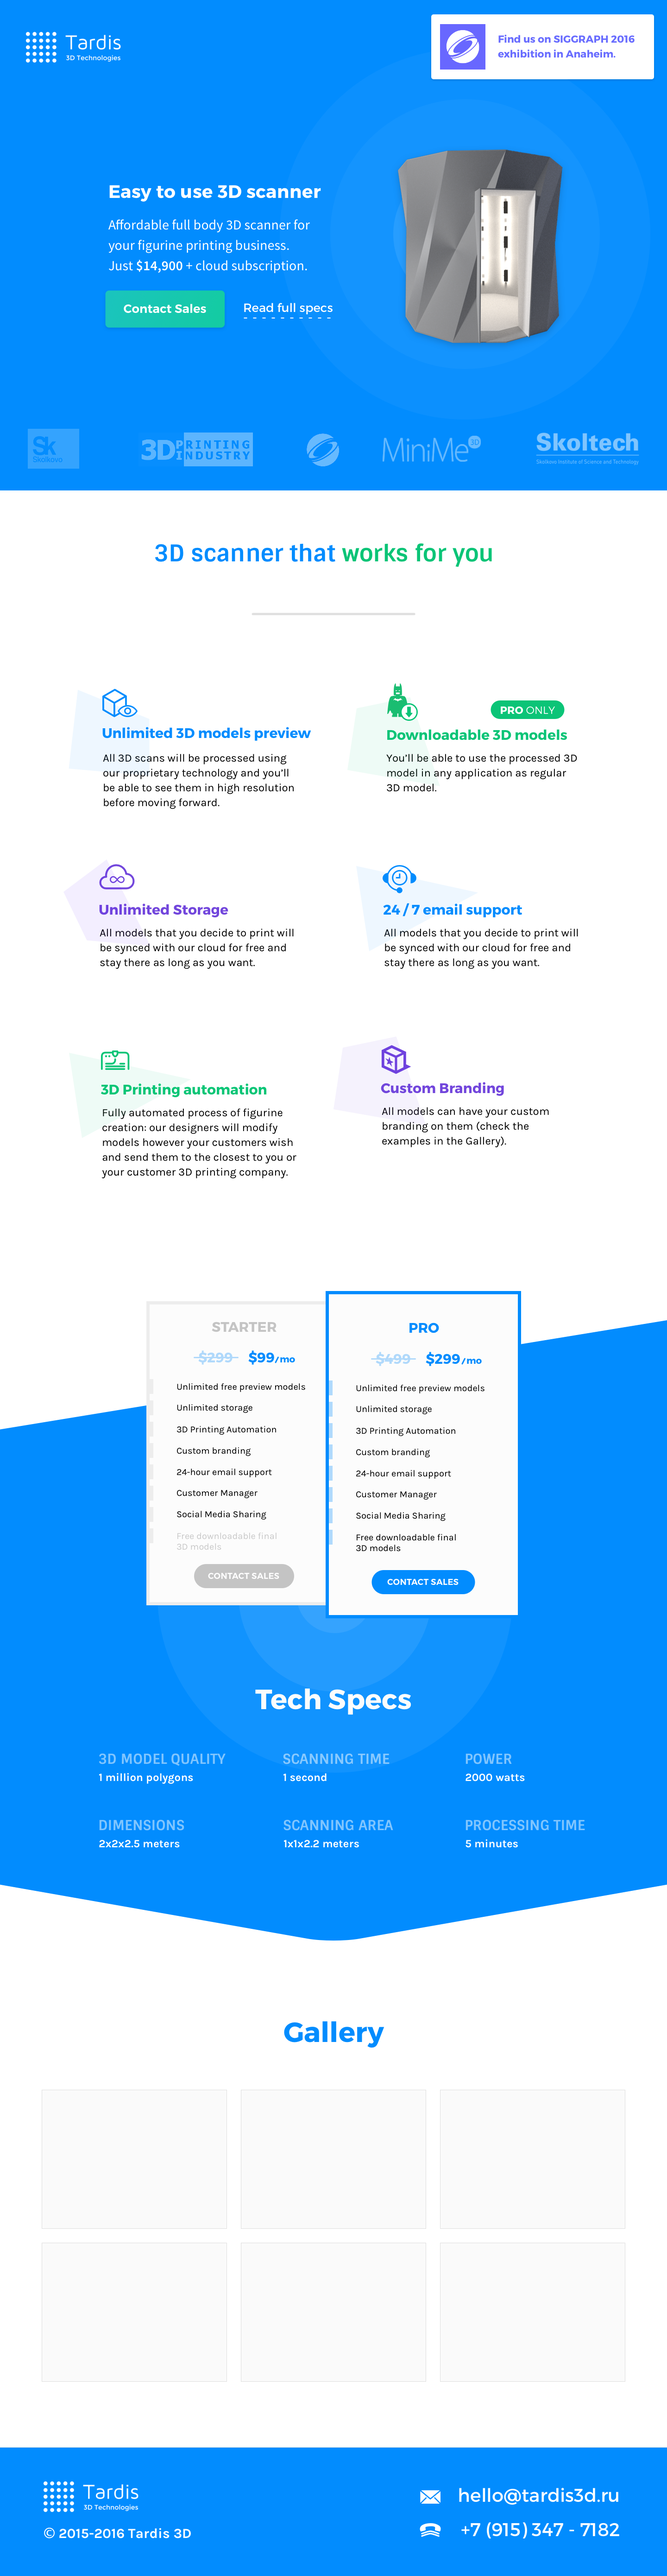
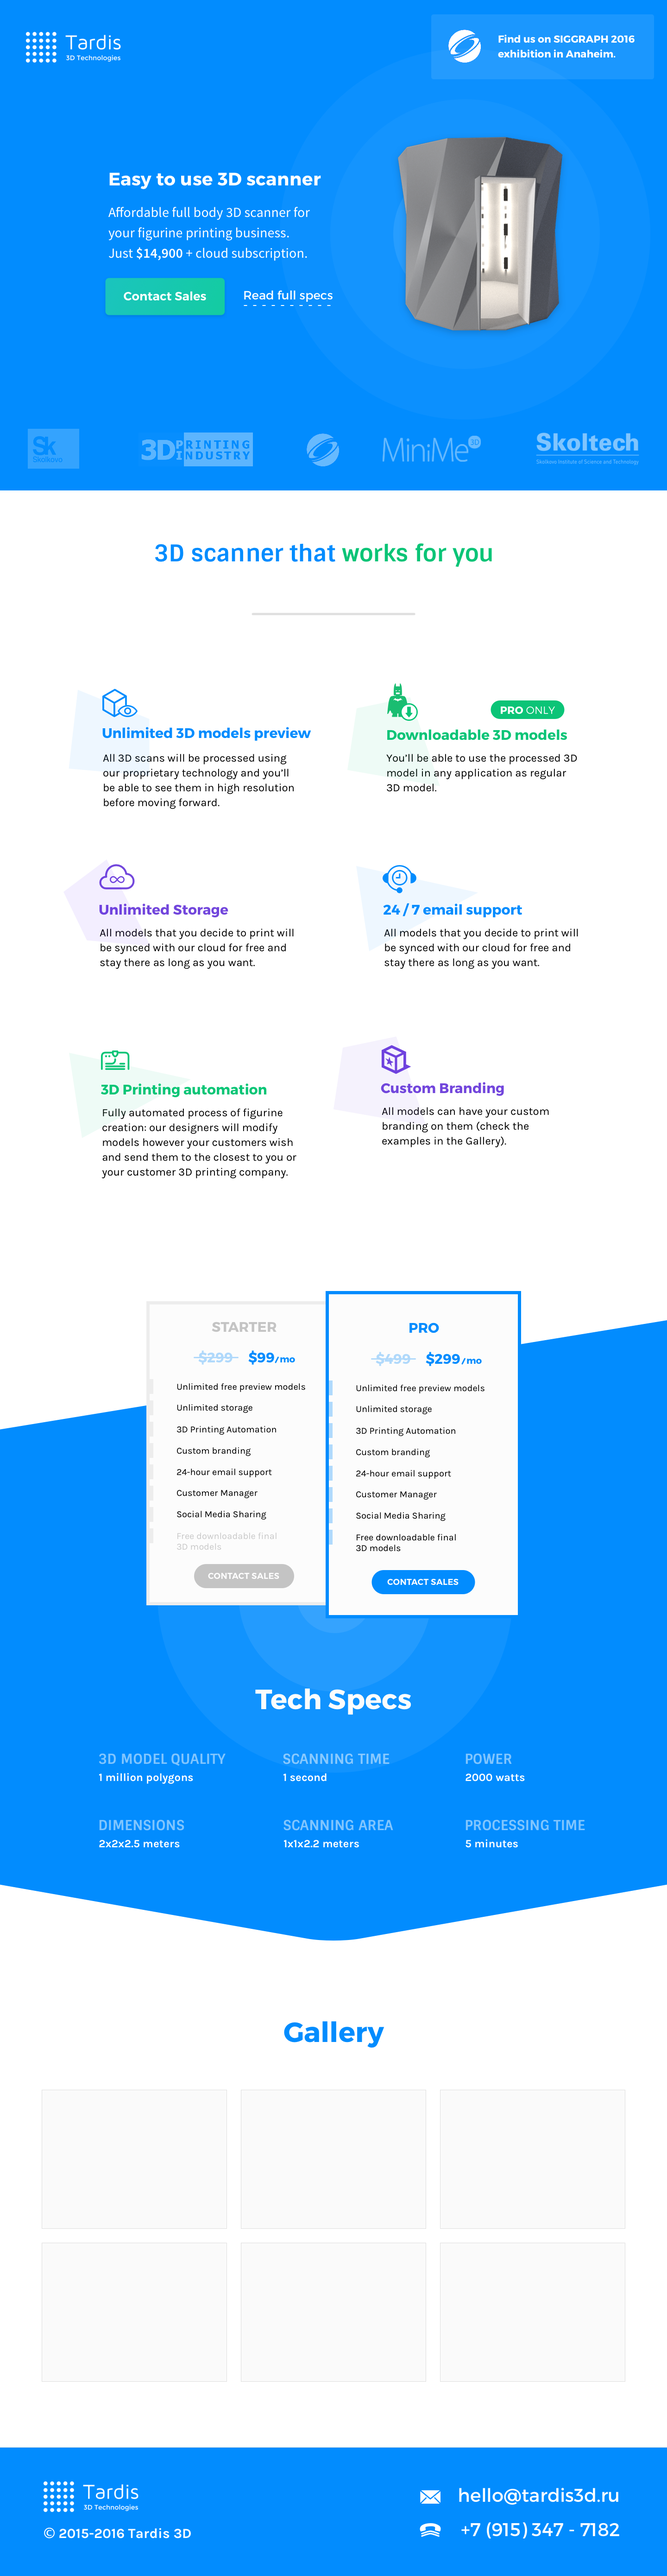
full width picture

Changed region(s): [[0.5938, 0.0, 1.0, 0.1557], [0.1562, 0.0623, 0.4688, 0.1245], [0.8125, 0.0934, 0.8438, 0.1245]]

diff --git a/index.html b/index.html
@@ -1,5 +1,11 @@
 <html>
+<style>
+    html, body {
+        margin: 0;
+        padding: 0;
+    }
+</style>
 <body>
-    <img src='img/placeholder' style='width: 100%'/>
+    <img src='img/placeholder.png' style='width: 100%'/>
 </body>
 </html>
